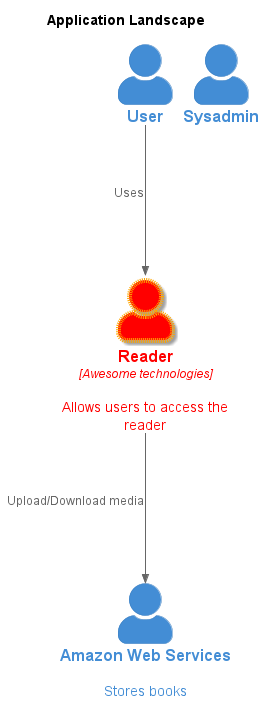
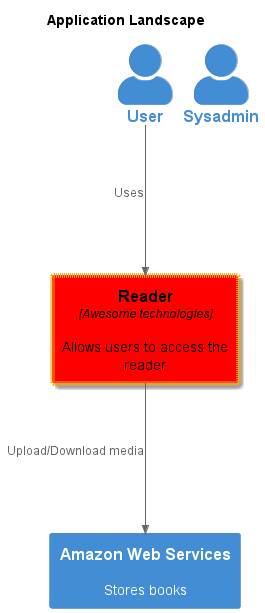
apply default shapes to diagram elements

diff --git a/src/main/java/it/vitalegi/archi/exporter/c4/plantuml/writer/PlantumlShapeElementVisitor.java b/src/main/java/it/vitalegi/archi/exporter/c4/plantuml/writer/PlantumlShapeElementVisitor.java
@@ -1,0 +1,72 @@
+package it.vitalegi.archi.exporter.c4.plantuml.writer;
+
+import it.vitalegi.archi.diagram.C4Shape;
+import it.vitalegi.archi.model.Model;
+import it.vitalegi.archi.model.element.Component;
+import it.vitalegi.archi.model.element.Container;
+import it.vitalegi.archi.model.element.ContainerInstance;
+import it.vitalegi.archi.model.element.DeploymentEnvironment;
+import it.vitalegi.archi.model.element.DeploymentNode;
+import it.vitalegi.archi.model.element.Group;
+import it.vitalegi.archi.model.element.InfrastructureNode;
+import it.vitalegi.archi.model.element.Person;
+import it.vitalegi.archi.model.element.SoftwareSystem;
+import it.vitalegi.archi.model.element.SoftwareSystemInstance;
+import it.vitalegi.archi.visitor.ElementVisitor;
+
+public class PlantumlShapeElementVisitor implements ElementVisitor<String> {
+    @Override
+    public String visitComponent(Component component) {
+        return C4Shape.RECTANGLE.getPlantumlShape();
+    }
+
+    @Override
+    public String visitContainer(Container container) {
+        return C4Shape.RECTANGLE.getPlantumlShape();
+    }
+
+    @Override
+    public String visitContainerInstance(ContainerInstance containerInstance) {
+        return C4Shape.RECTANGLE.getPlantumlShape();
+    }
+
+    @Override
+    public String visitDeploymentEnvironment(DeploymentEnvironment deploymentEnvironment) {
+        return null;
+    }
+
+    @Override
+    public String visitDeploymentNode(DeploymentNode deploymentNode) {
+        return null;
+    }
+
+    @Override
+    public String visitGroup(Group group) {
+        return null;
+    }
+
+    @Override
+    public String visitInfrastructureNode(InfrastructureNode infrastructureNode) {
+        return C4Shape.RECTANGLE.getPlantumlShape();
+    }
+
+    @Override
+    public String visitModel(Model model) {
+        return null;
+    }
+
+    @Override
+    public String visitPerson(Person person) {
+        return C4Shape.ACTOR.getPlantumlShape();
+    }
+
+    @Override
+    public String visitSoftwareSystem(SoftwareSystem softwareSystem) {
+        return C4Shape.RECTANGLE.getPlantumlShape();
+    }
+
+    @Override
+    public String visitSoftwareSystemInstance(SoftwareSystemInstance softwareSystemInstance) {
+        return C4Shape.RECTANGLE.getPlantumlShape();
+    }
+}

diff --git a/src/main/java/it/vitalegi/archi/exporter/c4/plantuml/writer/C4PlantumlWriter.java b/src/main/java/it/vitalegi/archi/exporter/c4/plantuml/writer/C4PlantumlWriter.java
@@ -64,12 +64,8 @@ public class C4PlantumlWriter extends PlantumlWriter {
         println("}");
     }
 
-    public void container(Element element) {
-        container(getAlias(element), element.getName(), formatTechnologies(element), element.getDescription(), "", formatTags(element), "", "");
-    }
-
     public void container(C4DiagramElement element) {
-        container(getAlias(element), element.getName(), formatTechnologies(element), element.getDescription(), "", formatTags(element), "", "");
+        container(getAlias(element), element.getName(), formatTechnologies(element), element.getDescription(), "", formatTags(element), "", element.getShape());
     }
 
     protected void container(String alias, String label, String technology, String description, String sprite, String tags, String link, String shape) {

diff --git a/src/main/java/it/vitalegi/archi/exporter/c4/plantuml/builder/DiagramElementFactoryVisitor.java b/src/main/java/it/vitalegi/archi/exporter/c4/plantuml/builder/DiagramElementFactoryVisitor.java
@@ -1,5 +1,6 @@
 package it.vitalegi.archi.exporter.c4.plantuml.builder;
 
+import it.vitalegi.archi.exporter.c4.plantuml.writer.PlantumlShapeElementVisitor;
 import it.vitalegi.archi.model.Model;
 import it.vitalegi.archi.model.diagramelement.C4DiagramElement;
 import it.vitalegi.archi.model.diagramelement.C4DiagramElementProperty;
@@ -92,6 +93,9 @@ public class DiagramElementFactoryVisitor implements ElementVisitor<C4DiagramEle
         out.setTags(element.getTags());
         out.setTechnologies(element.getTechnologies());
         out.setProperties(properties(element));
+
+        var shape = new PlantumlShapeElementVisitor();
+        out.setShape(element.visit(shape));
         return out;
     }
 

diff --git a/src/main/java/it/vitalegi/archi/diagram/C4Shape.java b/src/main/java/it/vitalegi/archi/diagram/C4Shape.java
@@ -1,0 +1,26 @@
+package it.vitalegi.archi.diagram;
+
+import lombok.Getter;
+
+@Getter
+public enum C4Shape {
+    RECTANGLE("rectangle"),
+    CIRCLE("circle"),
+    DATABASE("database"),
+    QUEUE("queue"),
+    ACTOR("actor"),
+    CLOUD("cloud"),
+    COLLECTIONS("collections"),
+    FILE("file"),
+    FOLDER("folder"),
+    HEXAGON("hexagon"),
+    PACKAGE("package"),
+    STORAGE("storage");
+
+    private final String plantumlShape;
+
+    C4Shape(String plantumlShape) {
+        this.plantumlShape = plantumlShape;
+    }
+
+}

diff --git a/src/main/java/it/vitalegi/archi/exporter/c4/plantuml/AbstractDiagramPlantumlExporter.java b/src/main/java/it/vitalegi/archi/exporter/c4/plantuml/AbstractDiagramPlantumlExporter.java
@@ -57,6 +57,7 @@ public abstract class AbstractDiagramPlantumlExporter<E extends Diagram> {
 
     protected void writeProperties(E diagram, C4PlantumlWriter writer) {
         writer.set("separator", "none");
+        writer.println("!ENABLE_ALL_PLANT_ELEMENTS = 1");
     }
 
     protected void writeDirection(E diagram, C4PlantumlWriter writer) {

diff --git a/src/main/java/it/vitalegi/archi/model/diagramelement/C4DiagramElement.java b/src/main/java/it/vitalegi/archi/model/diagramelement/C4DiagramElement.java
@@ -15,6 +15,7 @@ public class C4DiagramElement {
     List<String> tags;
     List<String> technologies;
     List<C4DiagramElementProperty> properties;
+    String shape;
 
     public C4DiagramElement() {
         children = new ArrayList<>();

diff --git a/src/main/java/it/vitalegi/archi/exporter/Writer.java b/src/main/java/it/vitalegi/archi/exporter/Writer.java
@@ -13,7 +13,7 @@ public class Writer {
         sb.append(str);
     }
 
-    protected void println(String str) {
+    public void println(String str) {
         sb.append(str).append("\n");
         printTab();
     }
